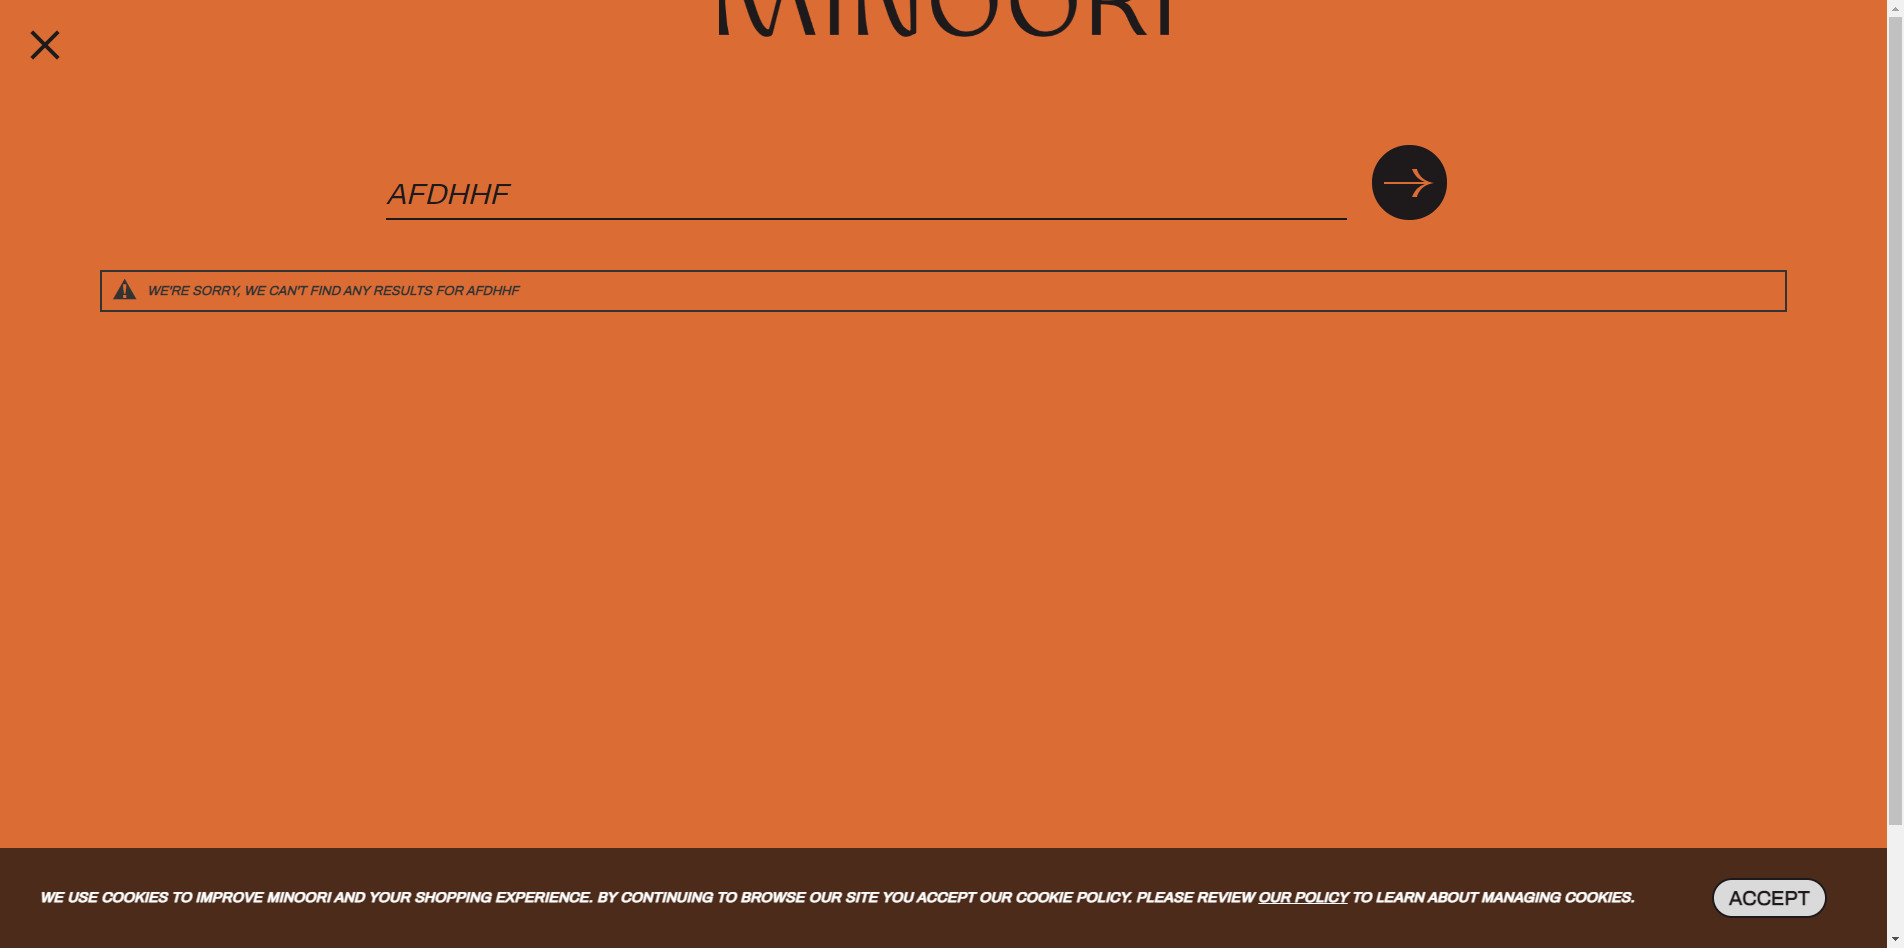
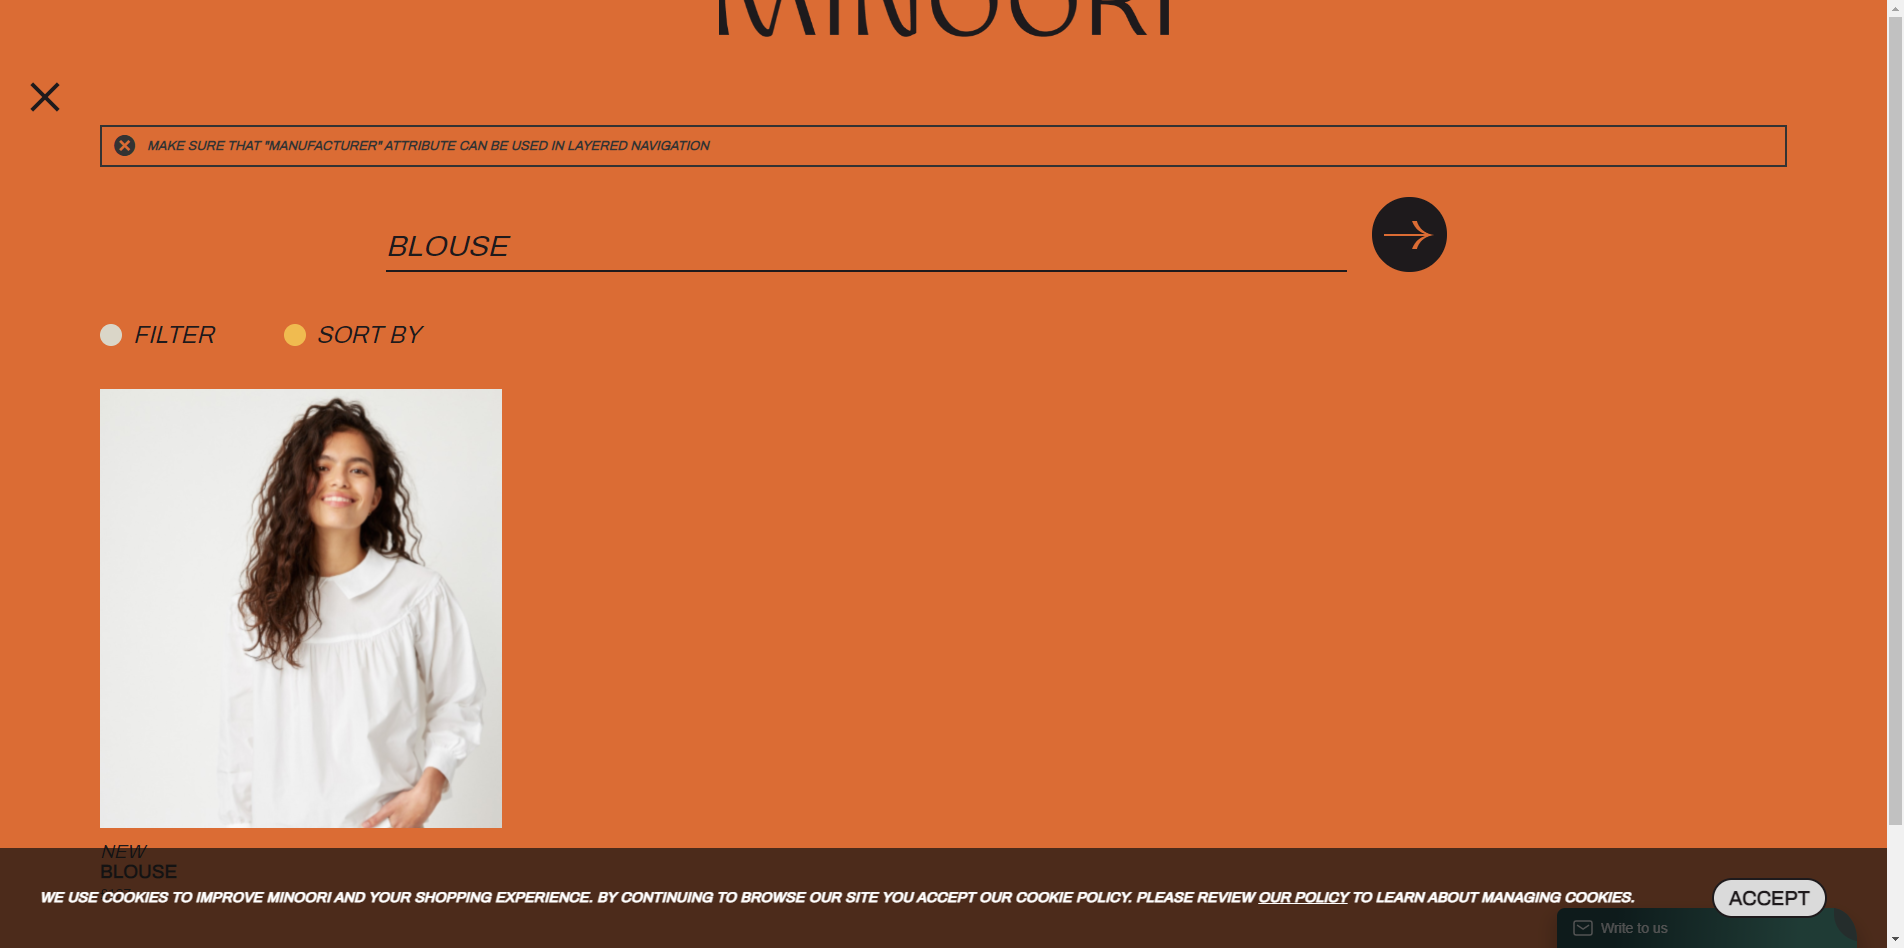
some rebuild

diff --git a/src/test/java/com/clear/pages/SearchPage.java b/src/test/java/com/clear/pages/SearchPage.java
@@ -10,7 +10,6 @@ import java.io.File;
 import java.io.IOException;
 
 public class SearchPage extends ClearMainPage {
-
     public SearchPage(WebDriver driver) {
         super(driver);
     }
@@ -19,14 +18,22 @@ public class SearchPage extends ClearMainPage {
     public void IsSearchImputVisible () {isDisplayed(By.xpath(Locator.LOCATOR_SEARCH_PAGE),5, "Search imput doesn`t visible" );}
 
     @Step("Send some text")
-    public  void SendText(String text) { getElement(By.xpath(Locator.LOCATOR_SEARCH_PAGE), 10, "not get").sendKeys(text);}
+    public void SendText(String text) { getElement(By.xpath(Locator.LOCATOR_SEARCH_PAGE), 10, "not get").sendKeys(text);}
 
     @Step("Search product")
     public void ClickSearch () { getElement(By.xpath(Locator.LOCATOR_SEARCH_BUTTON), 10, "not get").submit();}
 
-    @Step("Get screenshot")
-    public void GetScrinshot () throws IOException {
-        File scrFile = ((TakesScreenshot)driver).getScreenshotAs(OutputType.FILE);
-        // Now you can do whatever you need to do with it, for example copy somewhere
-        FileUtils.copyFile(scrFile, new File("D:\\AutoTests\\screen.png"));}
+    @Step("Check results")
+    public void IsSearchResultAre(String result) {
+        IsResultDisplayed();
+        IsSearchResultContainText(result);
+    }
+
+    @Step("result displayed")
+    private void IsResultDisplayed() { isDisplayed(By.xpath(Locator.LOCATOR_SEARCH_RESULT),10, "Results is not dispalyed");}
+
+    @Step("Search result contain")
+    private void IsSearchResultContainText (String result) { isTextContains(By.xpath(Locator.LOCATOR_SEARCH_RESULT),result,10,"result not contain text");}
+
+
 }

diff --git a/src/test/java/com/clear/pages/HomePage.java b/src/test/java/com/clear/pages/HomePage.java
@@ -6,6 +6,13 @@ import org.openqa.selenium.WebDriver;
 
 
 public class HomePage extends ClearMainPage {
+    int category = getRandomInt(1,3);
+    int typeOfProduct = getRandomInt(1,4);
+    String LOCATOR_MENU_CATEGORY = "/html[1]/body[1]/div[3]/header[1]/div[1]/div[1]/ul[1]/li["+ category +"]/a[1]";
+    String LOCATOR_MENU_TYPE = "//header/div[1]/div[1]/ul[1]/li["+ category +"]/ul[1]/li["+ typeOfProduct +"]/a[1]";
+
+    //header/div[1]/div[1]/ul[1]/li[1*]/ul[1]/li[1*]/a[1]
+
     public HomePage(WebDriver driver) {
         super(driver);
     }
@@ -27,5 +34,17 @@ public class HomePage extends ClearMainPage {
 
     @Step("Click on search field")
     public void ClickOnSearch(){ clickOnElement(By.xpath(Locator.LOCATOR_SEARCH_HOME),5,"not clicked" );}
+
+    @Step("Is login button visible")
+    public void IsMenuButtonVisible() { isDisplayed(By.xpath(Locator.LOCATOR_HOME_MENU),10,"Burger menu button is not visible");}
+
+    @Step("Open Burger menu")
+    public void ClickOnBurgerMenu () { clickOnElement(By.xpath(Locator.LOCATOR_HOME_MENU),10,"Burger menu button not clicked");}
+
+    @Step("Open category")
+    public void ClickOnCategory () {
+        moveTo(By.xpath(LOCATOR_MENU_CATEGORY),10,"Not moved to category");
+        clickOnElement(By.xpath(LOCATOR_MENU_TYPE),10,"Type of product not clicked");
+    }
 
 }

diff --git a/src/test/java/com/clear/tests/FilterTest.java b/src/test/java/com/clear/tests/FilterTest.java
@@ -1,9 +1,10 @@
 package com.clear.tests;
 
 import com.clear.pages.CatalogPage;
-import com.clear.pages.CategoryPage;
 import com.clear.pages.HomePage;
 import org.testng.annotations.Test;
+
+import java.io.IOException;
 
 
 public class FilterTest extends ClearTests {
@@ -11,7 +12,6 @@ public class FilterTest extends ClearTests {
         super(Platform.desktop);
     }
     HomePage homePage;
-    CategoryPage categoryPage;
     CatalogPage catalogPage;
 
 
@@ -19,14 +19,17 @@ public class FilterTest extends ClearTests {
     public void Before () {
         super.Before();
         homePage = new HomePage(this.getDriver());
-        categoryPage = new CategoryPage(this.getDriver());
         catalogPage = new CatalogPage(this.getDriver());
 
     }
 
     @Test(description = "Check that filters work")
-    public void FilterTest(){
-
+    public void FiltersTest() throws IOException {
+        homePage.IsMainPageLoad();
+        homePage.IsMenuButtonVisible();
+        homePage.ClickOnBurgerMenu();
+        homePage.ClickOnCategory();
+        homePage.GetScrinshot();
 
     }
 

diff --git a/src/main/java/com/clear/pages/ClearMainPage.java b/src/main/java/com/clear/pages/ClearMainPage.java
@@ -1,11 +1,16 @@
 package com.clear.pages;
 import ex.capybara.MainPages;
+import org.apache.commons.io.FileUtils;
 import org.openqa.selenium.Dimension;
+import org.openqa.selenium.OutputType;
+import org.openqa.selenium.TakesScreenshot;
 import org.openqa.selenium.WebDriver;
+
+import java.io.File;
+import java.io.IOException;
 
 public class ClearMainPage extends MainPages {
     public static final int timeForWaiting = 30;
-
 
 
     public ClearMainPage(WebDriver driver) {
@@ -14,5 +19,8 @@ public class ClearMainPage extends MainPages {
         driver.manage().window().setSize(dm);
     }
 
-
+    public void GetScrinshot () throws IOException {
+        File scrFile = ((TakesScreenshot)driver).getScreenshotAs(OutputType.FILE);
+        // Now you can do whatever you need to do with it, for example copy somewhere
+        FileUtils.copyFile(scrFile, new File("D:\\AutoTests\\screen.png"));}
 }

diff --git a/src/test/java/com/clear/tests/CheckoutTest.java b/src/test/java/com/clear/tests/CheckoutTest.java
@@ -1,7 +1,6 @@
 package com.clear.tests;
 
 import com.clear.pages.CatalogPage;
-import com.clear.pages.CategoryPage;
 import com.clear.pages.HomePage;
 import org.testng.annotations.Test;
 
@@ -11,7 +10,6 @@ public class CheckoutTest extends ClearTests {
     }
 
         HomePage homePage;
-        CategoryPage categoryPage;
         CatalogPage catalogPage;
 
 
@@ -19,13 +17,12 @@ public class CheckoutTest extends ClearTests {
         public void Before () {
             super.Before();
             homePage = new HomePage(this.getDriver());
-            categoryPage = new CategoryPage(this.getDriver());
             catalogPage = new CatalogPage(this.getDriver());
 
         }
 
         @Test(description = "Check that user can place order")
-        public void CheckoutTest () {
+        public void CheckoutsTest () {
 
         }
     }

diff --git a/src/test/java/com/clear/pages/Locator.java b/src/test/java/com/clear/pages/Locator.java
@@ -10,6 +10,9 @@ public class Locator extends ClearMainPage {
     static String LOCATOR_SEARCH_PAGE = "//input[@id='search']";
     static String LOCATOR_SEARCH_BUTTON = "//body/div[4]/aside[1]/div[2]/div[1]/div[1]/div[2]/form[1]/div[2]/button[1]";
     static String LOCATOR_SEARCH_HOME = "//a[@id='open-search']";
+    static String LOCATOR_SEARCH_RESULT = "//div[@id='amasty-shopby-product-list']";
+
     static String LOCATOR_HOME_MAIL = "//button[@id='buttonClose-right-first']";
     static String LOCATOR_HOME_MENU = "//header/div[1]/button[1]";
+
 }

diff --git a/src/test/java/com/clear/tests/SearchTest.java b/src/test/java/com/clear/tests/SearchTest.java
@@ -32,6 +32,7 @@ public class SearchTest extends ClearTests{
         searchPage.IsSearchImputVisible();
         searchPage.SendText("Blouse");
         searchPage.ClickSearch();
+        searchPage.IsSearchResultAre("Blouse");
         searchPage.GetScrinshot();
     }
 

diff --git a/src/test/java/com/clear/pages/CatalogPage.java b/src/test/java/com/clear/pages/CatalogPage.java
@@ -9,4 +9,6 @@ public class CatalogPage extends ClearMainPage {
 
 
 
+
+
 }
